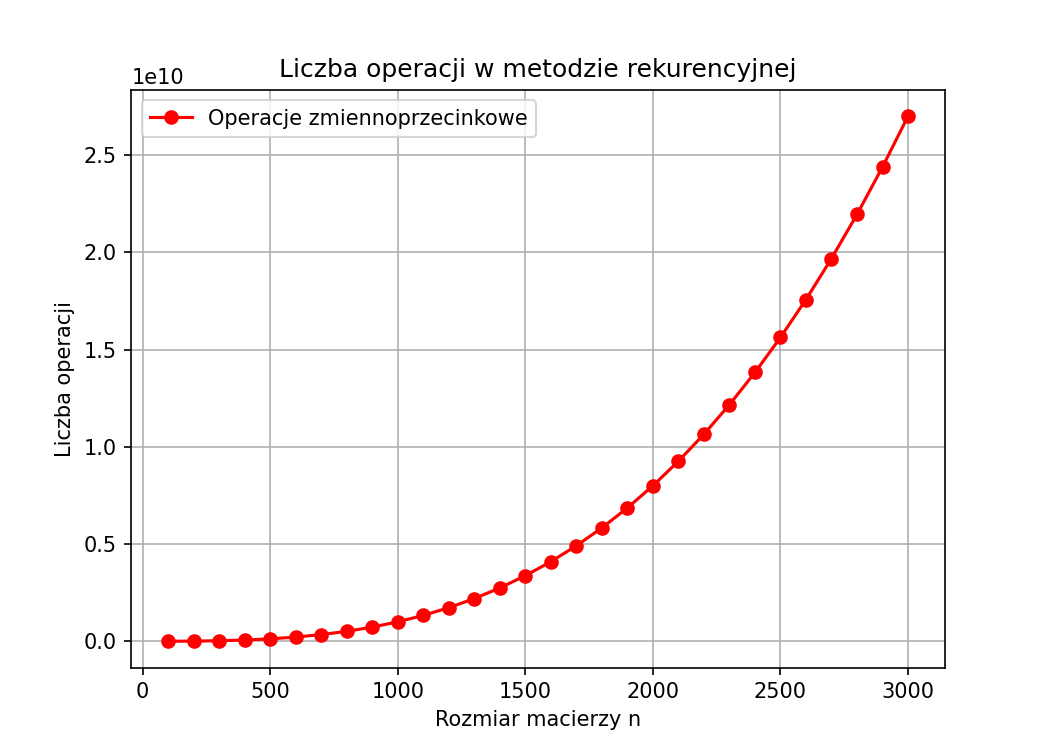
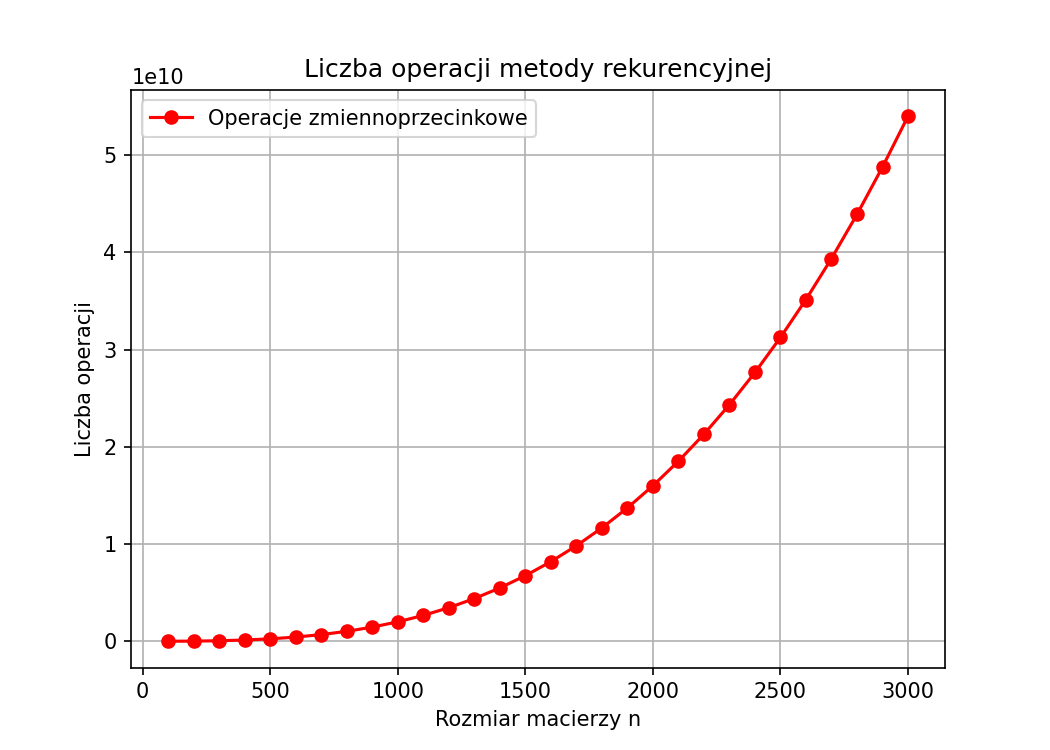
Updated plots
Corrected number of floating-point operations plot and changed titles of
plots.

diff --git a/lab1/gen_plots.py b/lab1/gen_plots.py
@@ -26,10 +26,10 @@ plt.savefig('czas_dzialania.png', dpi=150)
 # 2. Wykres liczby operacji zmiennoprzecinkowych
 # ==============================
 plt.figure(figsize=(7,5))
-plt.plot(n_data, [x**3 for x in n_data], 'ro-', label='Operacje zmiennoprzecinkowe')
+plt.plot(n_data, [x*x*(2*x-1) for x in n_data], 'ro-', label='Operacje zmiennoprzecinkowe')
 plt.xlabel('Rozmiar macierzy n')
 plt.ylabel('Liczba operacji')
-plt.title('Liczba operacji w metodzie rekurencyjnej')
+plt.title('Liczba operacji metody rekurencyjnej')
 plt.grid(True)
 plt.legend()
 plt.savefig('liczba_operacji.png', dpi=150)
@@ -42,7 +42,7 @@ plt.figure(figsize=(7,5))
 plt.plot(n_data, mem_data, 'go-', label='Pamięć [MB]')
 plt.xlabel('Rozmiar macierzy n')
 plt.ylabel('Zużycie pamięci [MB]')
-plt.title('Zużycie pamięci w metodzie rekurencyjnej')
+plt.title('Zużycie pamięci metody rekurencyjnej')
 plt.grid(True)
 plt.legend()
 plt.savefig('zuzycie_pamieci.png', dpi=150)
